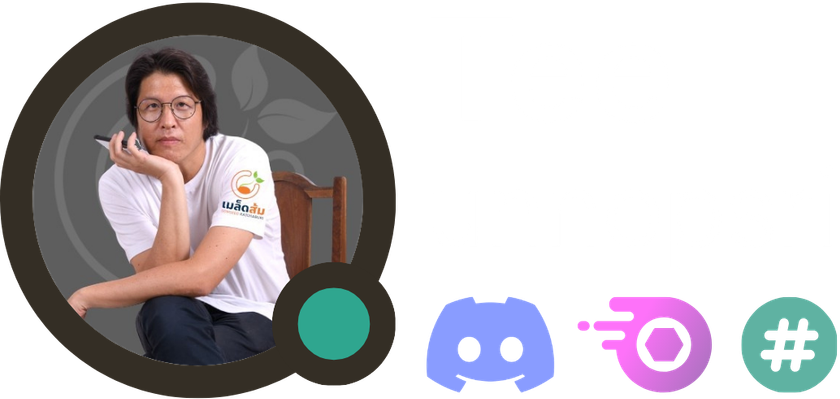
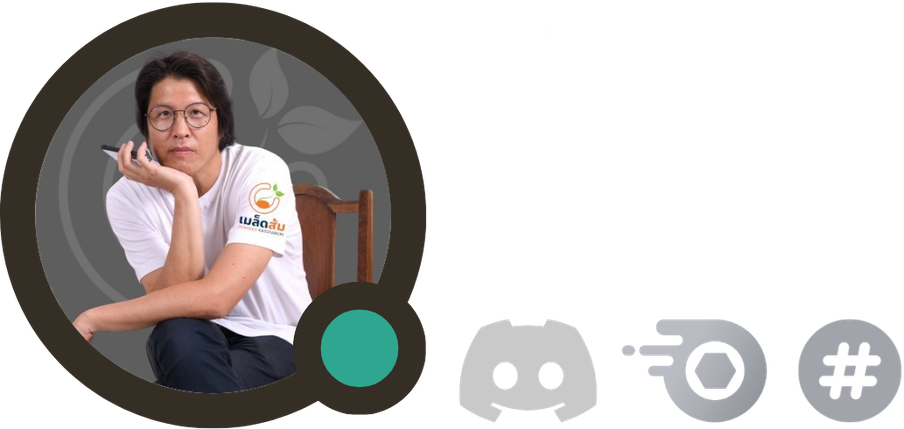
Reels Posting

diff --git a/utils/quoteStyles.js b/utils/quoteStyles.js
@@ -146,7 +146,7 @@ async function toPng(canvas) {
 // ── Core render ───────────────────────────────────────────────────────────────
 // markScale: relative size of mark (1.0 = default)
 // gradDark:  0.0–1.0 how dark the bottom gradient is
-async function renderVariant(buf, { quoteText, authorName, side = 'left', vertical = 'bottom', markScale = 1.0, gradDark = 0.95, saturation = 0.15, fontBold = 'Anakotmai', fontLight = 'AnakotmaiLight' }) {
+async function renderVariant(buf, { quoteText, authorName, side = 'left', vertical = 'bottom', markScale = 1.0, gradDark = 0.95, saturation = 0.15, fontBold = 'GSans', fontLight = 'AnakotmaiLight' }) {
   const isRight = side === 'right';
   const isTop   = vertical === 'top';
 
@@ -249,7 +249,7 @@ async function renderBorder(buf, { quoteText, authorName, saturation = 0.15 }) {
   const borderImg = await loadMark('frame_left');
 
   const maxW7   = W * 0.80;
-  const { fontSize: qszFit, lines } = fitFont(ctx, quoteText, maxW7, qsz, 4);
+  const { fontSize: qszFit, lines } = fitFont(ctx, quoteText, maxW7, qsz, 4, 'GSans');
   const lh      = qszFit * 1.2;
   const textH   = lines.length * lh + nsz * 1.8;
   const maxTextW = maxW7;
@@ -278,6 +278,7 @@ async function renderBorder(buf, { quoteText, authorName, saturation = 0.15 }) {
   // quote text
   ctx.textBaseline = 'top';
   ctx.shadowBlur = 0; ctx.shadowOffsetX = 0; ctx.shadowOffsetY = 0;
+  ctx.font = `bold ${qszFit}px GSans`;
   let ty = textBlockTop;
   for (const l of lines) {
     ctx.fillStyle = WHITE; lsDraw(ctx, l, textX, ty, 1.0);
@@ -311,7 +312,7 @@ async function renderBorder2(buf, { quoteText, authorName, saturation = 0.15 }) 
   const borderImg = await loadMark('frame_right');
 
   const maxW8   = W * 0.80;
-  const { fontSize: qszFit, lines } = fitFont(ctx, quoteText, maxW8, qsz, 4);
+  const { fontSize: qszFit, lines } = fitFont(ctx, quoteText, maxW8, qsz, 4, 'GSans');
   const lh      = qszFit * 1.2;
   const maxTextW = maxW8;
   const textH = lines.length * lh + nsz * 1.8;
@@ -341,6 +342,7 @@ async function renderBorder2(buf, { quoteText, authorName, saturation = 0.15 }) 
 
   ctx.textBaseline = 'top';
   ctx.shadowBlur = 0; ctx.shadowOffsetX = 0; ctx.shadowOffsetY = 0;
+  ctx.font = `bold ${qszFit}px GSans`;
   let ty = textBlockTop;
   for (const l of lines) {
     const drawX = contentX + (contentMaxW - lsWidth(ctx, l, 1.0));
@@ -424,7 +426,7 @@ async function renderCenter(buf, { quoteText, authorName, saturation = 1.0 }) {
 
   // author กลาง
   ty += nsz * 0.6;
-  ctx.font = `${nsz}px GSansLight`; ctx.fillStyle = 'rgba(255,255,255,0.85)';
+  ctx.font = `${nsz}px AnakotmaiLight`; ctx.fillStyle = 'rgba(255,255,255,0.85)';   // author ไม่มีหัวเสมอ
   const aw = lsWidth(ctx, authorName, 0.8);
   lsDraw(ctx, authorName, (W - aw) / 2, ty, 0.8);
 